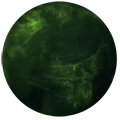
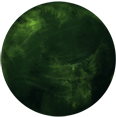
code and progress and more

diff --git a/app/scripts/models/planet.js b/app/scripts/models/planet.js
@@ -5,7 +5,8 @@
 angular.module('ld30App')
         .factory('Planet', function() {
 
-            var Planet = function(name, x, y, r) {
+            var Planet = function(id, name, x, y, r) {
+                this.id = id;
                 this.name = name;
                 this.xPos = x;
                 this.yPos = y;
@@ -13,6 +14,11 @@ angular.module('ld30App')
                 this.selected = false;
                 this.strokeStyle = '#003300';
                 this.lineWidth = 1;
+                this.rotation = 0;
+            };
+
+            Planet.prototype.getID = function() {
+                return this.id;
             };
 
             Planet.prototype.showName = function() {
@@ -35,6 +41,14 @@ angular.module('ld30App')
                 return this.radius;
             };
 
+            Planet.prototype.getRotation = function() {
+                return this.rotation;
+            };
+
+            Planet.prototype.setRotation = function(rot) {
+                this.rotation = rot;
+            };
+
             Planet.prototype.setSelection = function(s) {
                 this.selected = s;
                 if (this.selected) {
@@ -46,14 +60,25 @@ angular.module('ld30App')
                 }
             };
 
-            Planet.prototype.renderPlanet = function(ctx) {
+            Planet.prototype.renderPlanet = function(ctx, img) {
+                ctx.save();
+                ctx.translate(this.xPos, this.yPos);
+                ctx.rotate(this.rotation);
                 ctx.beginPath();
-                ctx.arc(this.xPos, this.yPos, this.radius, 0, 2 * Math.PI, false);
-                ctx.fillStyle = 'green';
-                ctx.fill();
+                ctx.arc(0, 0, this.radius, 0, 2 * Math.PI, false);
+                // ctx.fillStyle = 'green';
+                // ctx.fill();
                 ctx.lineWidth = this.lineWidth;
                 ctx.strokeStyle = this.strokeStyle;
                 ctx.stroke();
+                ctx.drawImage(
+                        img,
+                        -this.radius,
+                        -this.radius,
+                        (this.radius * 2),
+                        (this.radius * 2)
+                        );
+                ctx.restore();
             };
 
             return Planet;

diff --git a/app/scripts/controllers/game.js b/app/scripts/controllers/game.js
@@ -59,6 +59,16 @@ angular.module('ld30App')
                 if (keysDown[39]) {
                     player.getPosition().x += 1 * timeModifier;
                 }
+
+                for (var i = 0; i < planets.length; i++) {
+                    if (planets[i].getRotation() >= 360) {
+                        planets[i].setRotation(0);
+                    }
+                    planets[i].setRotation(
+                            planets[i].getRotation() +
+                            (1 / (planets[i].getRadius() / 10)) * timeModifier
+                            );
+                }
             }
 
             function planetGenerator() {
@@ -85,16 +95,22 @@ angular.module('ld30App')
                     var x = Math.floor((Math.random() * canvas.width) + 1) + (radius / 2);
                     var y = Math.floor((Math.random() * canvas.height) + 1);
 
-                    var p = new Planet('planet' + counter, x, y, radius);
+                    var p = new Planet(counter + 1, 'planet' + counter, x, y, radius);
                     // p.showName();
                     planets.push(p);
                     counter--;
                 } while (counter > 0);
             }
 
-            function renderPlanets(ctx) {
+            function renderPlanets(ctx, gfx) {
+                if (gfx.planetImages.length < planets.length) {
+                    for (var index = 0; index < planets.length; index++) {
+                        gfx.planetImages.push(gfx.planetImages[index]);
+                    }
+                }
                 for (var i = 0; i < planets.length; i++) {
-                    planets[i].renderPlanet(ctx);
+                    var planetImg = gfx.planetImages[i];
+                    planets[i].renderPlanet(ctx, planetImg);
                 }
             }
 
@@ -107,7 +123,7 @@ angular.module('ld30App')
                 ctx.textBaseline = 'top';
                 ctx.fillText('fps: ' + fps, 5, 5);
 
-                renderPlanets(ctx);
+                renderPlanets(ctx, gfx);
             }
 
             function detectPlanetOnClick(x, y) {

diff --git a/app/scripts/services/graphicService.js b/app/scripts/services/graphicService.js
@@ -11,8 +11,23 @@ angular.module('ld30App')
                 var bgImage = new Image();
                 bgImage.src = 'images/background1.png';
 
+                var planetImages = [];
+                var planetPaths = [
+                    'images/planet1.png',
+                    'images/planet2.png',
+                    'images/planet3.png',
+                    'images/planet4.png'
+                ];
+                
+                for (var i = 0; i < planetPaths.length; i++) {
+                    var planetImage = new Image();
+                    planetImage.src = planetPaths[i];
+                    planetImages.push(planetImage);
+                }
+
                 gfx = {
-                    'bgImage': bgImage
+                    'bgImage': bgImage,
+                    'planetImages': planetImages
                 };
 
                 return gfx;

diff --git a/app/views/main.html b/app/views/main.html
@@ -1,7 +1,17 @@
 
 <div>
-    <h1 class="cover-heading"> Planet Connection </h1>
-    <p class="lead"> how to play, description and stuff like that ... </p>
+   <h1 class="cover-heading">  <u> Planet Connection  </u> </h1>
+    <p class="lead"> 
+        You are a spaceship pilot and you have to connect some planets for no reason.
+        <br>
+        Take your highend-laser-technology-tools and just do that job!
+        <br>
+        Try to connect as many as possible planets without crossing the beams with each other.
+        <br>
+        
+        <br>
+        how to play, description and stuff like that ... 
+    </p>
 
     <br>
 

diff --git a/app/scripts/services/renderService.js b/app/scripts/services/renderService.js
@@ -2,7 +2,7 @@
 
 'use strict';
 
-angular.module('ld30App')
+angular.module('ld30App') // not necessary
         .service('renderService', function() {
 
             function drawHUD(ctx) {
@@ -15,7 +15,7 @@ angular.module('ld30App')
 
             return function(ctx) {
                 // ctx.drawImage(, 0, 0);
-                
+
                 drawHUD(ctx);
             };
 
